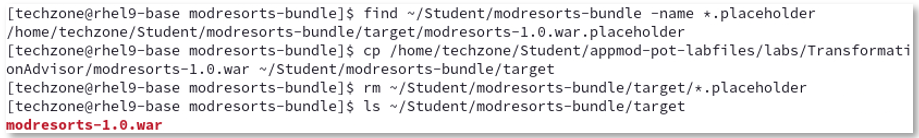
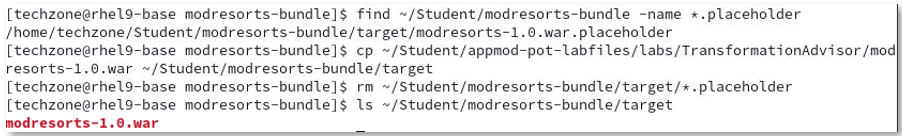
Updated

diff --git a/README.md b/README.md
@@ -1171,10 +1171,10 @@ expedite the app deployment to OpenShift Platform.
     To identify the target directory, find the placeholder file that has been generated, then copy the application war to the related directory. 
     
         find ~/Student/modresorts-bundle -name *.placeholder
-        cp /home/techzone/Student/appmod-pot-labfiles/labs/TransformationAdvisor/modresorts-1.0.war ~/Student/modresorts-bundle/target
+        cp ~/Student/appmod-pot-labfiles/labs/TransformationAdvisor/modresorts-1.0.war ~/Student/modresorts-bundle/target
         rm ~/Student/modresorts-bundle/target/*.placeholder
         ls ~/Student/modresorts-bundle/target
-        
+
     ![](./images/media/replace_placeholder_new.png)
     
 
